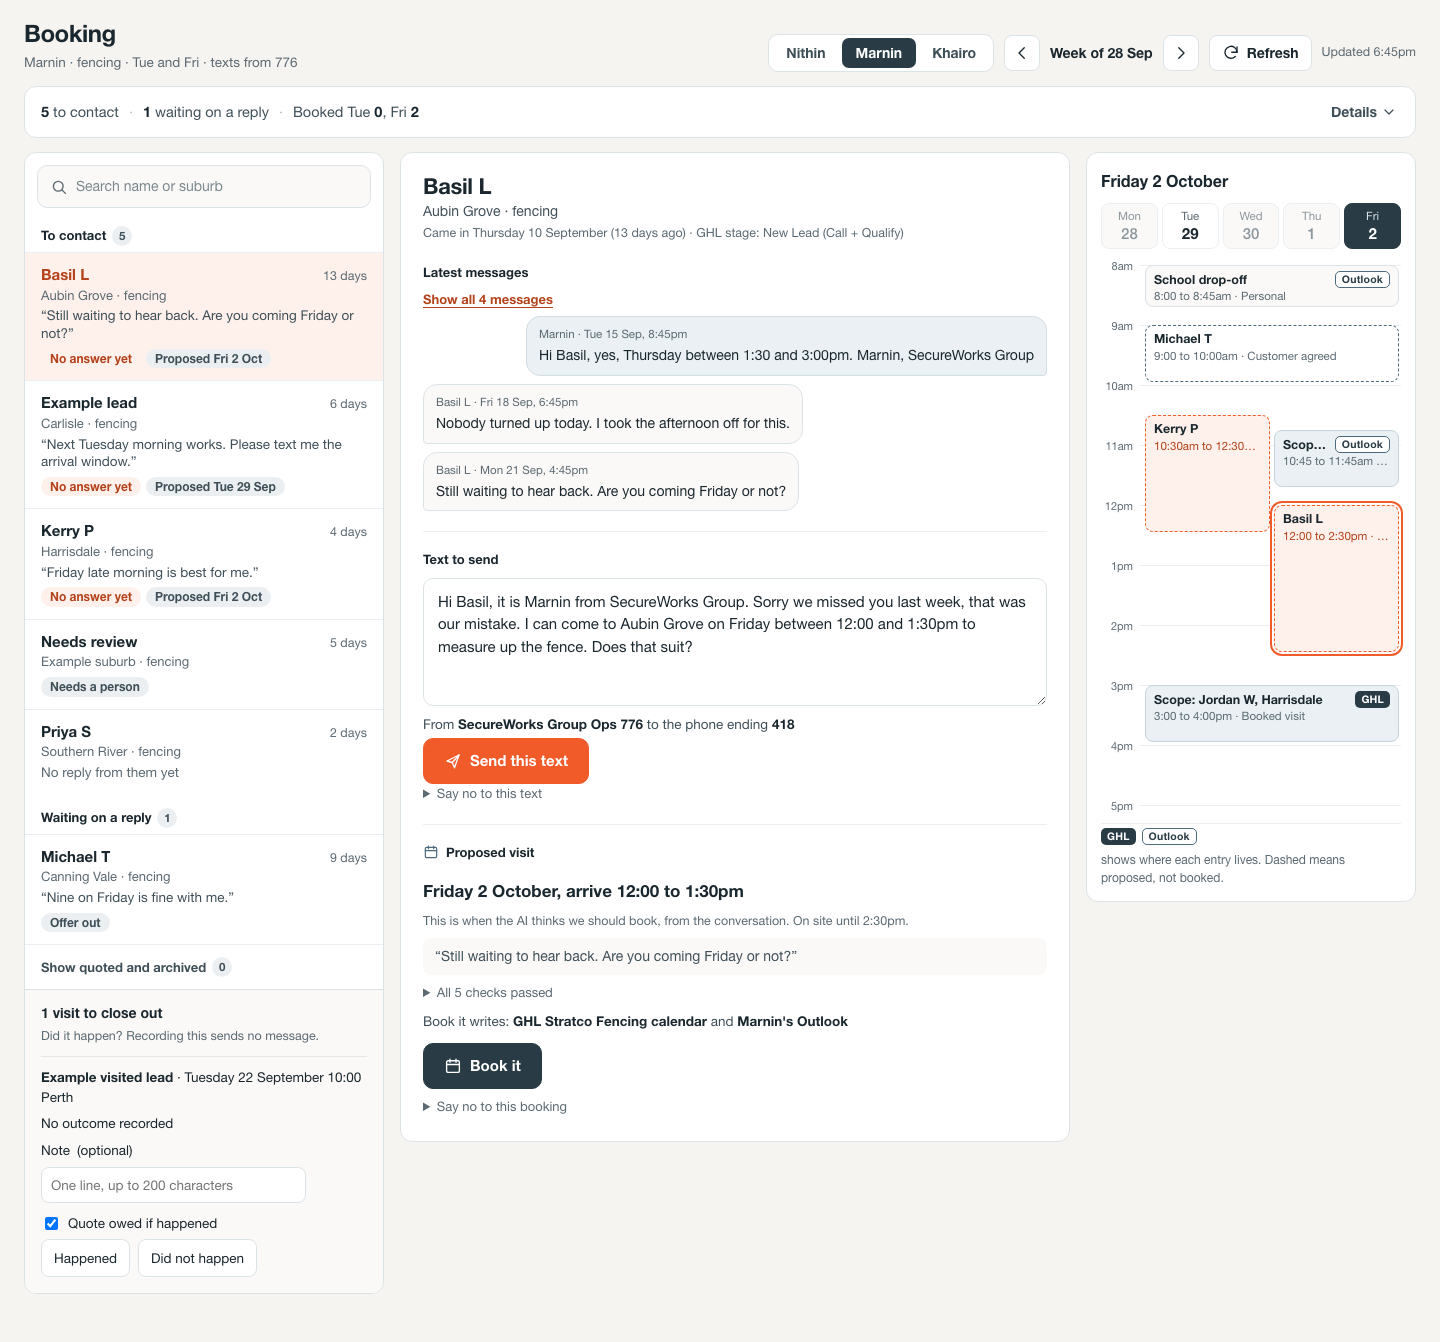
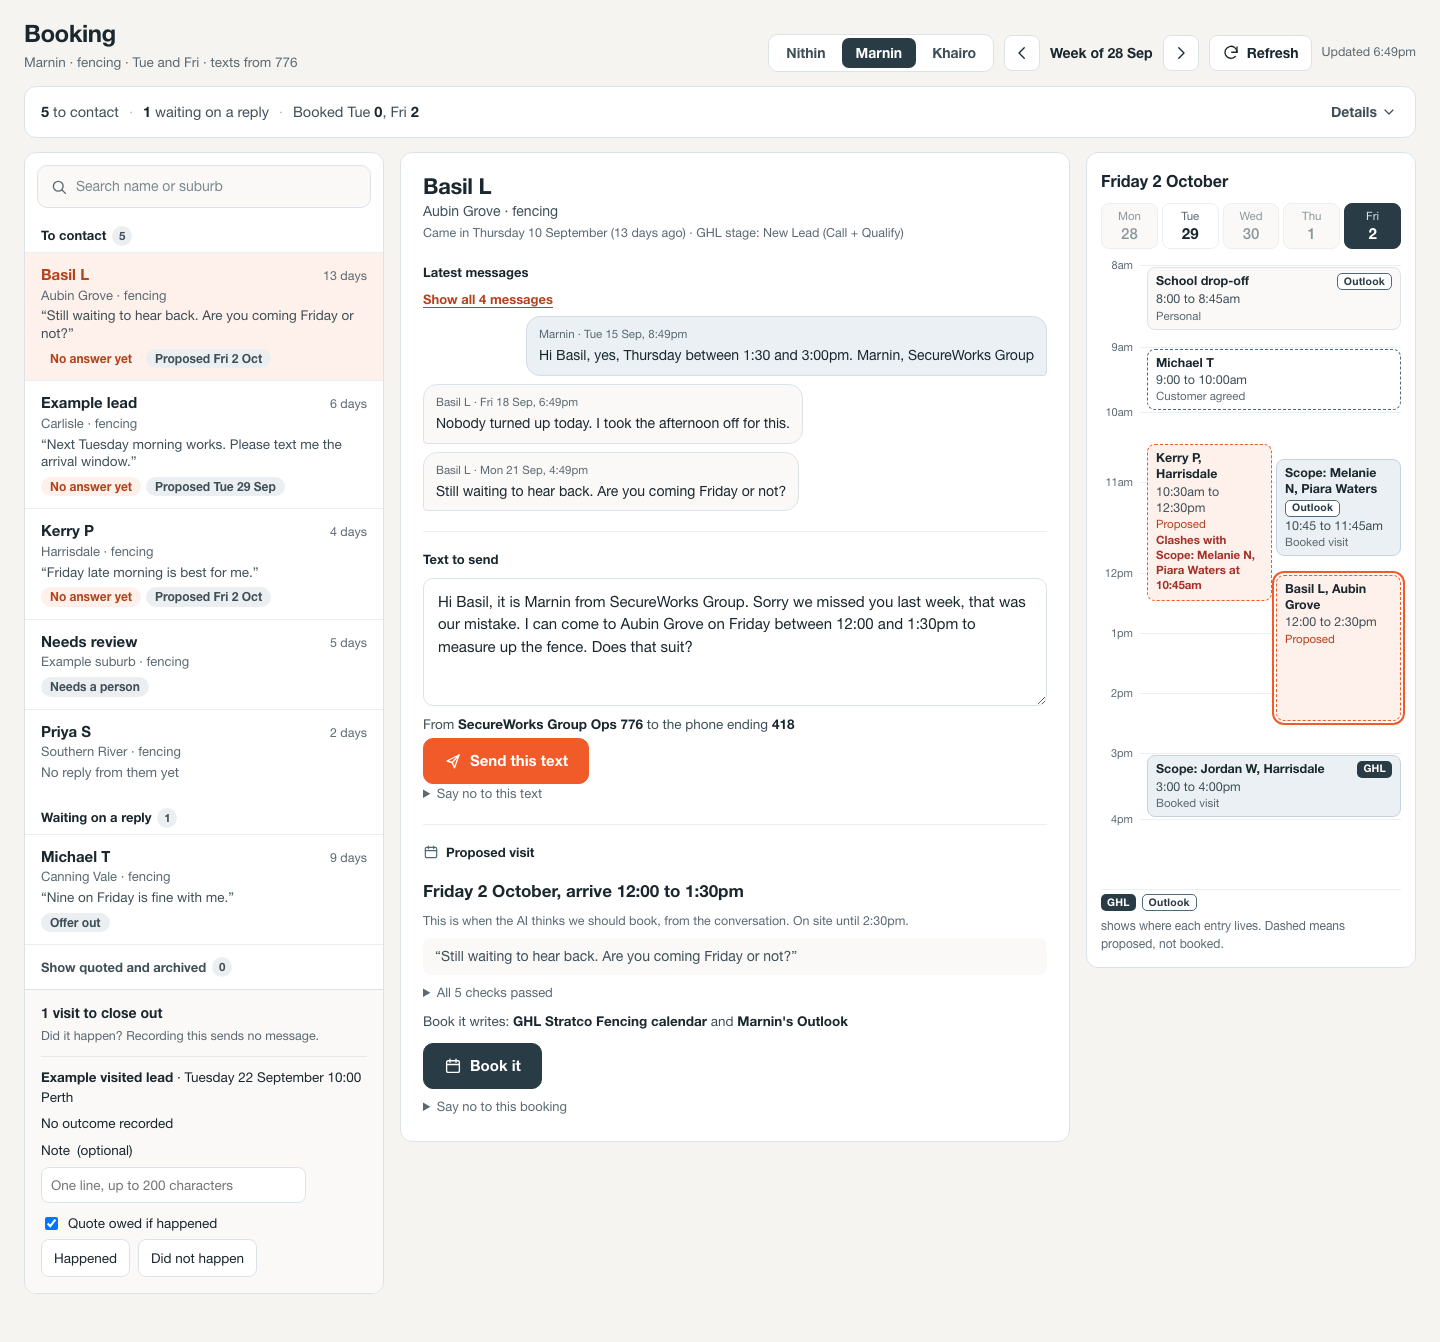
fix(ops): show every overlapping booking in full on the day column
The day is now a grid of 15-minute rows that grow to fit the words, so
overlapping entries wrap their full name and time instead of being cut off,
at desktop and phone widths. A proposed slot that runs into a booking or
another customer's hold says which one, e.g. Clashes with Scope: Melanie N,
Piara Waters at 10:45am.

Changed region(s): [[0.75, 0.1833, 1.0, 0.7027], [0.9375, 0.1833, 0.9688, 0.2139], [0.875, 0.6721, 0.9062, 0.7027]]

diff --git a/modules/ops-sales-booking.js b/modules/ops-sales-booking.js
@@ -2027,7 +2027,6 @@
   // day as a column. Every press records the owner's approval of the exact
   // content first, then asks the server to act, then says what happened.
   // ---------------------------------------------------------------------------
-  var PX_PER_HOUR_DAY = 60;
   var ACTIONS = { message: 'sales_booking_send', calendar: 'sales_booking_book' };
   // Live GHL calendar ids (wiki booking review, 23 Sep 2026). Unknown ids are
   // named as "GHL calendar", never guessed.
@@ -2581,9 +2580,32 @@
       if (!p || !p.start_iso || dayIndexFromIso(p.start_iso, state.weekStart) !== d) return;
       var kind = caseLayer(c);
       if (kind === 'confirmed' && c.event_id) return;
-      list.push({ block: { id: c.id, start_iso: p.start_iso, end_iso: p.end_iso || addHourIso(p.start_iso), display_name: c.display_name, suburb: caseSuburb(c), proposal: true, not_in_this_read: !!c.not_in_this_read }, kind: kind });
+      list.push({ block: { id: c.id, contact_id: c.contact_id, start_iso: p.start_iso, end_iso: p.end_iso || addHourIso(p.start_iso), display_name: c.display_name, suburb: caseSuburb(c), proposal: true, not_in_this_read: !!c.not_in_this_read }, kind: kind });
+    });
+    // A proposed slot that runs into occupied time or another customer's hold
+    // says which booking, in words, on the slot itself.
+    list.forEach(function (card) {
+      var b = card.block;
+      if (!b.proposal) return;
+      var a0 = Date.parse(b.start_iso), a1 = Date.parse(b.end_iso);
+      var hit = list.filter(function (other) {
+        var o = other.block;
+        if (o === b || o.proposal) return false;
+        if (o.reservation_state ? o.contact_id === b.contact_id : !diaryOccupiesDay(o)) return false;
+        return Date.parse(o.start_iso) < a1 && Date.parse(o.end_iso) > a0;
+      })[0];
+      if (hit) b.clash = 'Clashes with ' + dayEventTitle(hit.block) + ' at ' + clockLabel(hourFromIso(hit.block.start_iso));
     });
     return packLanes(list);
+  }
+
+  function dayEventTitle(b) {
+    if (b.proposal) return b.display_name || 'Proposed visit';
+    if (b.reservation_state) {
+      var holder = cases().filter(function (row) { return row.contact_id && row.contact_id === b.contact_id; })[0];
+      return holder && holder.display_name || 'Another customer';
+    }
+    return eventTitle(b);
   }
 
   function kindWords(kind, block) {
@@ -2591,22 +2613,40 @@
     return ({ confirmed: 'Booked visit', blocked: 'Cancelled, still in calendar', offer: block.proposal ? 'Offer out' : 'Offer out', personal: 'Personal', busy: 'Busy', leave: 'Leave', proposal: 'Proposed' })[kind] || 'Busy';
   }
 
-  function renderDayEvent(card) {
+  // The day is a grid of 15-minute rows sized minmax(15px, auto): an entry spans
+  // its rows, and when its words need more room the rows grow instead of the
+  // words being cut off. Overlapping entries share the width in lanes.
+  var SLOTS_PER_HOUR = 4;
+
+  function slotOf(iso, roundUp) {
+    var h = hourFromIso(iso);
+    if (h == null) return null;
+    var slot = (h - DAY_START) * SLOTS_PER_HOUR;
+    slot = roundUp ? Math.ceil(slot - 1e-9) : Math.floor(slot + 1e-9);
+    return Math.max(0, Math.min((DAY_END - DAY_START) * SLOTS_PER_HOUR, slot));
+  }
+
+  function renderDayEvent(card, columns) {
     var b = card.block, kind = card.kind;
-    var start = hourFromIso(b.start_iso);
-    if (start == null) return '';
-    var span = Math.max(0.5, durationHours(b.start_iso, b.end_iso));
-    var top = Math.max(0, (start - DAY_START) * PX_PER_HOUR_DAY);
-    var lanes = Math.max(1, b.lanes || 1), lane = b.lane || 0, width = 100 / lanes;
-    var holder = b.reservation_state ? cases().filter(function (row) { return row.contact_id && row.contact_id === b.contact_id; })[0] : null;
-    var title = b.proposal ? b.display_name : b.reservation_state ? (holder && holder.display_name || 'Another customer') : eventTitle(b);
+    var from = slotOf(b.start_iso, false);
+    if (from == null) return '';
+    var to = Math.max(from + 3, slotOf(b.end_iso, true) || from + 4);
+    to = Math.min(to, (DAY_END - DAY_START) * SLOTS_PER_HOUR);
+    if (to <= from) { from = Math.max(0, to - 3); }
+    var lanes = Math.max(1, b.lanes || 1), lane = b.lane || 0;
+    var per = Math.max(1, Math.floor(columns / lanes));
+    var colStart = 2 + lane * per;
+    var colEnd = lane === lanes - 1 ? -1 : colStart + per;
+    var title = dayEventTitle(b);
     var badge = b.proposal || b.reservation_state ? '' : '<span class="src src-' + sourceLabel(b).toLowerCase() + '">' + sourceLabel(b) + '</span>';
     var selected = b.id && b.id === state.selectedId;
-    return '<button type="button" class="ev is-' + kind + (b.proposal ? ' is-proposal' : '') + (selected ? ' is-sel' : '') + '" data-booking-case="' + esc(b.id || '') + '"' +
-      ' style="left:calc(' + (lane * width) + '% + 2px);width:calc(' + width + '% - 4px);top:' + top + 'px;height:' + Math.max(42, span * PX_PER_HOUR_DAY - 3) + 'px"' +
-      ' title="' + esc(timeRange(b.start_iso, b.end_iso) + ' · ' + (title || 'Busy') + ' · ' + kindWords(kind, b) + (badge ? ' · ' + sourceLabel(b) : '')) + '">' +
-      '<span class="ev-top"><span class="ev-title">' + esc(title || 'Busy') + '</span>' + badge + '</span>' +
-      '<span class="ev-kind"><span class="ev-time">' + esc(timeRange(b.start_iso, b.end_iso)) + '</span> · ' + esc(kindWords(kind, b)) + (b.not_in_this_read ? ' · not in GHL list' : '') + '</span></button>';
+    var place = b.suburb && !b.reservation_state ? ', ' + b.suburb : '';
+    return '<button type="button" class="ev is-' + kind + (b.proposal ? ' is-proposal' : '') + (b.clash ? ' is-clash' : '') + (selected ? ' is-sel' : '') + '" data-booking-case="' + esc(b.id || '') + '"' +
+      ' style="grid-row:' + (from + 1) + ' / ' + (to + 1) + ';grid-column:' + colStart + ' / ' + colEnd + '">' +
+      '<span class="ev-top"><span class="ev-title">' + esc(title || 'Busy') + esc(place) + '</span>' + badge + '</span>' +
+      '<span class="ev-time">' + esc(timeRange(b.start_iso, b.end_iso)) + '</span>' +
+      '<span class="ev-kind">' + esc(kindWords(kind, b)) + (b.not_in_this_read ? ' · not in GHL list' : '') + '</span>' +
+      (b.clash ? '<span class="ev-clash">' + esc(b.clash) + '</span>' : '') + '</button>';
   }
 
   function renderDay() {
@@ -2626,23 +2666,37 @@
     }
     var notes = '';
     if (lane.indexOf(d) < 0) notes += '<p class="daynote">Not a ' + esc(res.name) + ' day. ' + esc(res.desk_rules.lane_note || 'No new scopes are offered on this day.') + '</p>';
+    var slots = (DAY_END - DAY_START) * SLOTS_PER_HOUR;
+    var cards = dayCards(d);
+    var columns = 1;
+    cards.forEach(function (card) { columns = Math.max(columns, card.block.lanes || 1); });
+    if (columns > 1) {
+      // Enough columns that every lane count on this day divides evenly.
+      var want = columns;
+      cards.forEach(function (card) { var l = card.block.lanes || 1; while (want % l) want += columns; });
+      columns = want;
+    }
     var fixed = '';
+    var span = function (fromHour, toHour) {
+      return 'grid-row:' + (Math.round((fromHour - DAY_START) * SLOTS_PER_HOUR) + 1) + ' / ' + (Math.round((toHour - DAY_START) * SLOTS_PER_HOUR) + 1) + ';grid-column:2 / -1';
+    };
     if (d === 0 && res.desk_rules.monday_from > DAY_START) {
-      fixed += '<div class="fixed" style="top:0;height:' + ((res.desk_rules.monday_from - DAY_START) * PX_PER_HOUR_DAY) + 'px"><span>Not available before ' + res.desk_rules.monday_from + ':00</span></div>';
+      fixed += '<div class="fixed" style="' + span(DAY_START, res.desk_rules.monday_from) + '"><span>Not available before ' + res.desk_rules.monday_from + ':00</span></div>';
     }
     var band = res.desk_rules.protected_band;
     if (band && band.day === d) {
-      fixed += '<div class="fixed is-band" style="top:' + ((band.from - DAY_START) * PX_PER_HOUR_DAY) + 'px;height:' + ((band.to - band.from) * PX_PER_HOUR_DAY) + 'px"><span>' + esc(band.label) + ' · ' + esc(band.note) + '</span></div>';
+      fixed += '<div class="fixed is-band" style="' + span(band.from, band.to) + '"><span>' + esc(band.label) + ' · ' + esc(band.note) + '</span></div>';
     }
     var hours = '';
-    for (var h = DAY_START; h <= DAY_END; h++) {
-      hours += '<div class="hour" style="top:' + ((h - DAY_START) * PX_PER_HOUR_DAY) + 'px"><span>' + clockLabel(h).replace(':00', '') + '</span></div>';
+    for (var h = DAY_START; h < DAY_END; h++) {
+      var row = (h - DAY_START) * SLOTS_PER_HOUR + 1;
+      hours += '<div class="hourline" style="grid-row:' + row + ' / ' + (row + SLOTS_PER_HOUR) + '"></div>' +
+        '<div class="hour" style="grid-row:' + row + ' / ' + (row + SLOTS_PER_HOUR) + '"><span>' + clockLabel(h).replace(':00', '') + '</span></div>';
     }
-    var cards = dayCards(d);
-    var events = cards.map(renderDayEvent).join('');
+    var events = cards.map(function (card) { return renderDayEvent(card, columns); }).join('');
     var empty = cards.length ? '' : '<p class="dayempty">Nothing in the calendar this day. Leave is not read, so empty is not the same as free.</p>';
     return '<section class="bk-day" aria-label="The day">' + head + notes +
-      '<div class="daygrid" style="height:' + ((DAY_END - DAY_START) * PX_PER_HOUR_DAY + 8) + 'px">' + hours + '<div class="lanes">' + fixed + events + '</div>' + empty + '</div>' +
+      '<div class="daygrid" style="grid-template-columns:42px repeat(' + columns + ',minmax(0,1fr));grid-template-rows:repeat(' + slots + ',minmax(15px,auto))">' + hours + fixed + events + empty + '</div>' +
       '<p class="daykey"><span class="src src-ghl">GHL</span><span class="src src-outlook">Outlook</span> shows where each entry lives. Dashed means proposed, not booked.</p></section>';
   }
 

diff --git a/modules/ops-sales-booking.css b/modules/ops-sales-booking.css
@@ -231,28 +231,29 @@
 #salesBookingRoot .daypick button[aria-pressed="true"]{background:var(--brand);border-color:var(--brand);color:#D7E1E6}
 #salesBookingRoot .daypick button[aria-pressed="true"] b{color:#fff}
 #salesBookingRoot .daynote{font-size:13px;color:var(--ink-2);padding:8px 10px;background:var(--surface-2);border-radius:var(--r-sm)}
-#salesBookingRoot .daygrid{position:relative;margin-top:6px}
-#salesBookingRoot .hour{position:absolute;left:0;right:0;border-top:1px solid var(--line-2)}
+#salesBookingRoot .daygrid{display:grid;column-gap:4px;margin-top:6px;position:relative}
+#salesBookingRoot .hourline{grid-column:1 / -1;border-top:1px solid var(--line-2);z-index:0}
+#salesBookingRoot .hour{grid-column:1;position:relative;z-index:1}
 #salesBookingRoot .hour span{position:absolute;left:0;top:-8px;width:38px;padding-right:6px;text-align:right;font-size:11px;color:var(--muted);background:var(--surface);font-variant-numeric:tabular-nums}
-#salesBookingRoot .lanes{position:absolute;top:0;bottom:0;left:42px;right:0}
-#salesBookingRoot .fixed{position:absolute;left:0;right:0;background:var(--surface-2);border-radius:6px;padding:4px 8px;font-size:11.5px;color:var(--muted)}
+#salesBookingRoot .fixed{z-index:1;background:var(--surface-2);border-radius:6px;padding:4px 8px;font-size:11.5px;color:var(--muted)}
 #salesBookingRoot .fixed.is-band{background:#F3EFE8;color:var(--ink-2)}
-#salesBookingRoot .ev{position:absolute;display:grid;align-content:start;gap:1px;overflow:hidden;text-align:left;padding:5px 8px;border-radius:8px;font-size:12.5px;line-height:1.3;background:var(--surface-2);border:1px solid var(--line)}
-#salesBookingRoot .ev-top{display:flex;justify-content:space-between;align-items:center;gap:4px}
-#salesBookingRoot .ev-time{font-variant-numeric:tabular-nums}
-#salesBookingRoot .ev-title{font-weight:650;color:var(--ink);overflow:hidden;text-overflow:ellipsis;white-space:nowrap}
-#salesBookingRoot .ev-kind{font-size:11.5px;color:var(--muted);white-space:nowrap;overflow:hidden;text-overflow:ellipsis}
+#salesBookingRoot .ev{z-index:2;display:grid;align-content:start;gap:1px;margin:2px 0;text-align:left;padding:5px 8px;border-radius:8px;font-size:12.5px;line-height:1.3;background:var(--surface-2);border:1px solid var(--line);overflow-wrap:anywhere}
+#salesBookingRoot .ev-top{display:flex;flex-wrap:wrap;justify-content:space-between;align-items:flex-start;gap:2px 6px}
+#salesBookingRoot .ev-title{font-weight:650;color:var(--ink);flex:1 1 7em}
+#salesBookingRoot .ev-time{font-variant-numeric:tabular-nums;color:var(--ink-2)}
+#salesBookingRoot .ev-kind{font-size:11.5px;color:var(--muted)}
+#salesBookingRoot .ev-clash{font-size:11.5px;font-weight:650;color:var(--bad)}
 #salesBookingRoot .ev.is-confirmed{background:var(--brand-wash);border-color:#C5D4DC}
 #salesBookingRoot .ev.is-blocked{background:var(--bad-wash);border-color:#EDC4BF}
 #salesBookingRoot .ev.is-blocked .ev-title{text-decoration:line-through;color:var(--bad)}
 #salesBookingRoot .ev.is-offer{background:var(--surface);border:1.5px dashed var(--brand-2)}
 #salesBookingRoot .ev.is-proposal{background:var(--accent-wash);border:1.5px dashed var(--accent)}
 #salesBookingRoot .ev.is-proposal .ev-kind{color:var(--accent-ink)}
-#salesBookingRoot .ev.is-sel{box-shadow:0 0 0 2px var(--surface),0 0 0 4px var(--accent);z-index:2}
+#salesBookingRoot .ev.is-sel{box-shadow:0 0 0 2px var(--surface),0 0 0 4px var(--accent);z-index:3}
 #salesBookingRoot .src{display:inline-flex;align-items:center;padding:0 6px;height:17px;border-radius:5px;font-size:10.5px;font-weight:700;letter-spacing:.02em;flex:none}
 #salesBookingRoot .src-ghl{background:var(--brand);color:#fff}
 #salesBookingRoot .src-outlook{background:var(--surface);color:var(--brand);border:1px solid var(--brand-2)}
-#salesBookingRoot .dayempty{position:absolute;top:40%;left:42px;right:0;text-align:center;color:var(--muted);font-size:13px}
+#salesBookingRoot .dayempty{grid-column:2 / -1;grid-row:14 / 20;align-self:center;z-index:1;text-align:center;color:var(--muted);font-size:13px}
 #salesBookingRoot .daykey{display:flex;flex-wrap:wrap;align-items:center;gap:6px;font-size:12px;color:var(--muted);padding-top:4px;border-top:1px solid var(--line-2)}
 #salesBookingRoot .dayunread{padding:14px;border-radius:var(--r-sm);background:var(--bad-wash);color:var(--bad);display:grid;gap:4px}
 #salesBookingRoot .dayunread h3{font-size:14px}

diff --git a/tests/e2e/sales-booking-redesign.spec.js b/tests/e2e/sales-booking-redesign.spec.js
@@ -62,6 +62,15 @@ for (const vp of viewports) {
       await expect(page.locator('.visit .clash')).toHaveText('Clashes with Scope: Melanie N, Piara Waters at 10:45am (Outlook).');
       await expect(page.getByRole('button', { name: 'Book it' })).toBeDisabled();
       await expect(page.getByRole('button', { name: 'Send this text' })).toBeDisabled();
+      const slot = page.locator('.bk-day .ev.is-clash', { hasText: 'Kerry P' });
+      await expect(slot.locator('.ev-clash')).toHaveText('Clashes with Scope: Melanie N, Piara Waters at 10:45am');
+      // Overlapping entries show their whole name and time, never cut off.
+      for (const ev of await page.locator('.bk-day .ev').all()) {
+        for (const part of await ev.locator('.ev-title, .ev-time, .ev-clash').all()) {
+          expect(await part.evaluate((el) => el.scrollWidth <= el.clientWidth + 1 && el.scrollHeight <= el.clientHeight + 1)).toBe(true);
+        }
+        expect(await ev.evaluate((el) => el.scrollHeight <= el.clientHeight + 1)).toBe(true);
+      }
     });
 
     test('editing the text changes what is approved, and a missing send action says so', async ({ page }) => {
